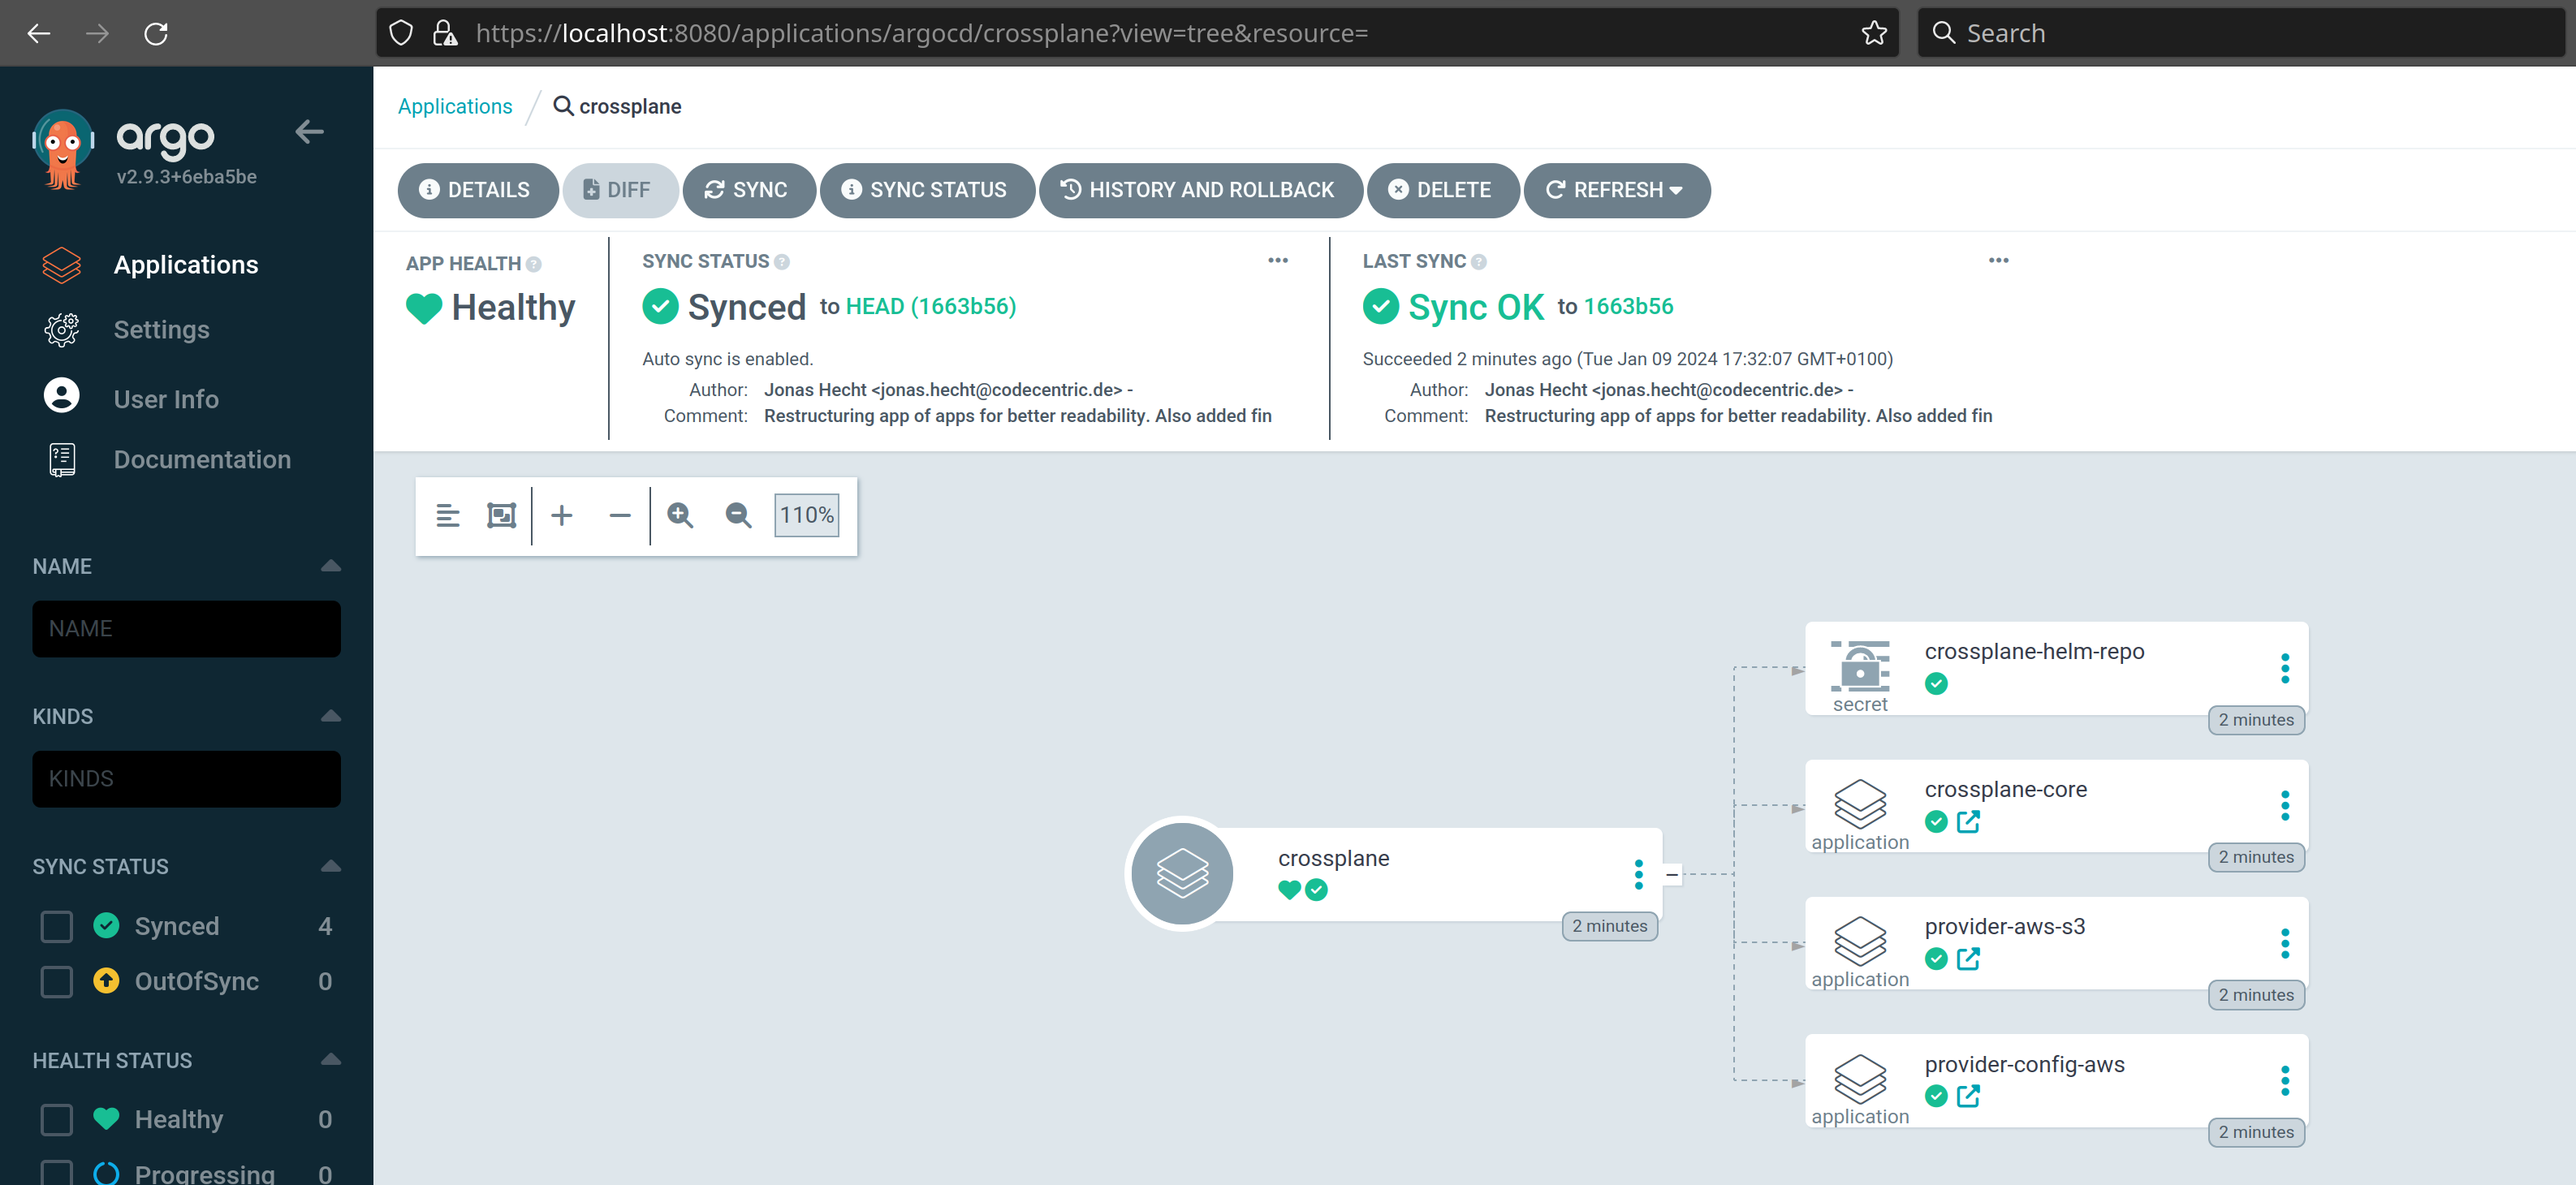
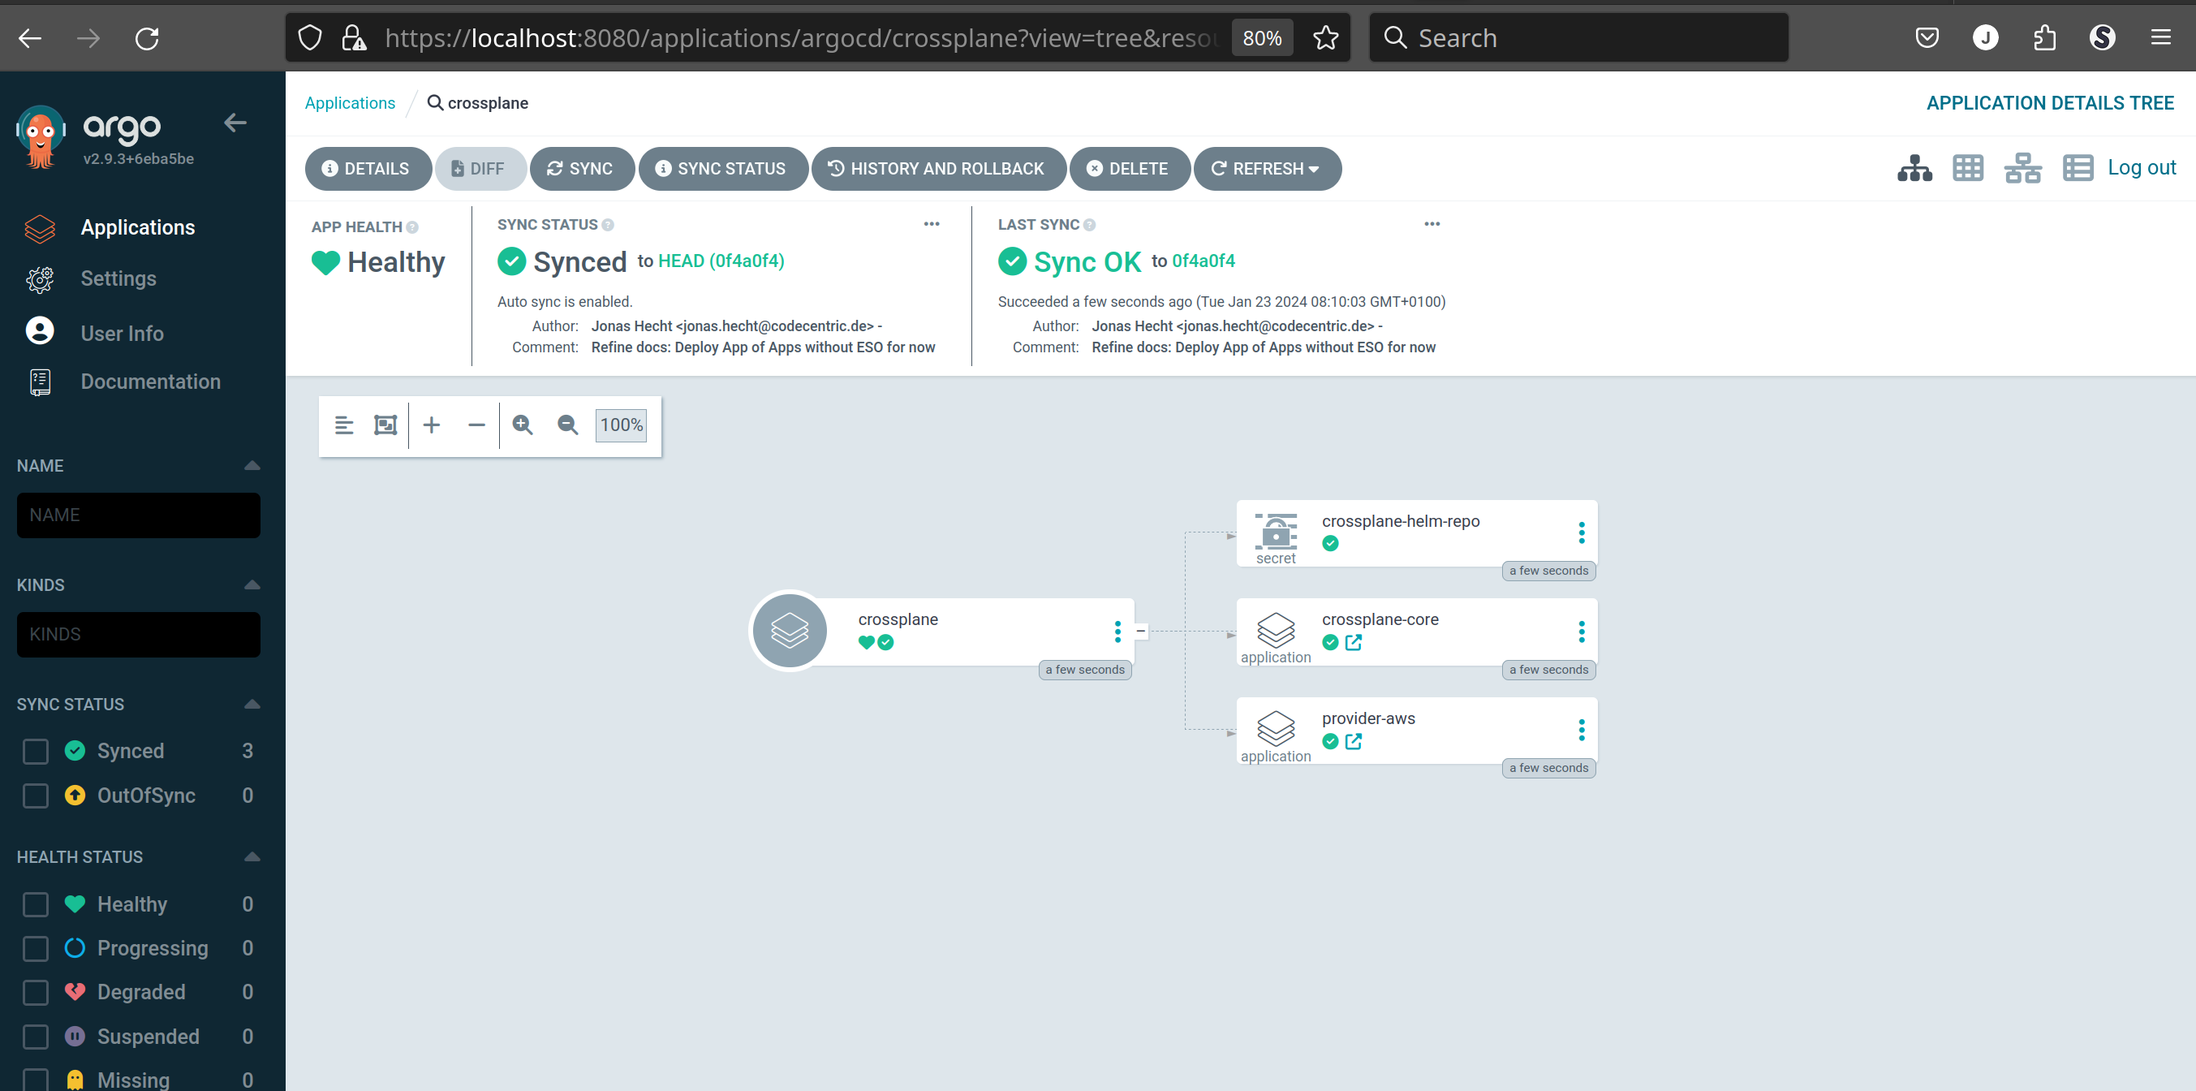
Restructure docs again

Changed region(s): [[0.0, 0.0, 1.0, 1.0], [0.4346, 0.4375, 0.9002, 0.9688], [0.3415, 0.5312, 0.5277, 0.625]]

diff --git a/README.md b/README.md
@@ -433,6 +433,31 @@ We finally managed to let Argo deploy the Crossplane core components together wi
 
 
 
+## Provider and ProviderConfig in one directory / Argo Application
+
+What really drove me nuts was the fact that I needed 2 separate ArgoCD applications for Crossplane's Provider: The Provider itself and the ProviderConfig, where the latter is exactly one single manifest which only configures the Provider where to find it's secrets.
+
+But after digging deeper into Argo's deployment mechanisms, Syncwaves and syncpolicies, I found a way how to get rid of the second Argo Application just for the `provider-config-aws`. 
+
+I simply used `syncPolicy:retry:limit: 5`, so that the `Provider` has the chance to deploy it's CRDs (together with the `ProviderConfig` type), in order the `ProviderConfig` can be deployed successfully. It's all just in [`argocd/applications/crossplane-provider-aws.yaml`](argocd/applications/crossplane-provider-aws.yaml):
+
+```yaml
+  syncPolicy:
+    ... 
+    retry:
+      # Using limit 5, so that the ProviderConfig can "wait" (via retry) for the Provider and it's CRDs to be deployed
+      # and not to run into 'The Kubernetes API could not find aws.upbound.io/ProviderConfig for requested resource default/default.'
+      limit: 5
+      ...
+```
+
+Our Application overview becomes much cleaner and the detail of the `provider-aws` now shows the `default` providerconfig as a second item:
+
+![](docs/provider-aws-provider-config-one-argo-application.png)
+
+
+
+
 # Using ArgoCD's AppOfApps pattern to deploy Crossplane components
 
 ### Why our current setup is sub optimal
@@ -557,7 +582,7 @@ Now if we have a look into `crossplane` App of Apps we see all the needed compon
 
 
 
-# Doing it all with GitHub Actions
+## Doing it all with GitHub Actions
 
 Ok, enough theory :)) Let's create a pipeline that shows stuff works. Let's introduce a [.github/workflows/provision-aws.yml](.github/workflows/provision-aws.yml):
 
@@ -641,6 +666,93 @@ Be sure to create both `AWS_ACCESS_KEY_ID` and `AWS_SECRET_ACCESS_KEY` configure
 ![github-actions-secrets](docs/github-actions-secrets.png)
 
 Also make sure to have your `Default region` configured as a `env:` variable.
+
+
+
+
+
+## Finally provisioning Cloud resources with Crossplane and Argo
+
+Let's create a simple S3 Bucket in AWS. [The docs tell us](https://marketplace.upbound.io/providers/upbound/provider-aws-s3/v0.47.1/resources/s3.aws.upbound.io/Bucket/v1beta1), which config we need. [`upbound/provider-aws/resources/bucket.yaml`](upbound/provider-aws/resources/bucket.yaml) features a super simply example:
+
+```yaml
+apiVersion: s3.aws.upbound.io/v1beta1
+kind: Bucket
+metadata:
+  name: crossplane-argocd-s3-bucket
+spec:
+  forProvider:
+    region: eu-central-1
+  providerConfigRef:
+    name: default
+```
+
+__TODO:__ Rename `argocd/applications` into `argocd/bootstrap` and the corresponding app-of-apps also into `crossplane-bootstrap` - since that's exactly what it is and does!
+
+
+Since we're using Argo, we should deploy our Bucket as Argo Application too. I created a new folder `argocd/crossplane-resources`
+here, since the Crossplane provisioned infrastructure may not automatically be part of the bootstrap App of Apps.
+
+So here's our Argo Application for all the Crossplane resources that may come: [`argocd/crossplane-resources/crossplane-managed-resources.yaml`](argocd/crossplane-resources/crossplane-managed-resources.yaml):
+
+```yaml
+# The ArgoCD Application for all Crossplane Managed Resources
+---
+apiVersion: argoproj.io/v1alpha1
+kind: Application
+metadata:
+  name: crossplane-managed-resources
+  namespace: argocd
+  finalizers:
+    - resources-finalizer.argocd.argoproj.io
+spec:
+  project: default
+  source:
+    repoURL: https://github.com/jonashackt/crossplane-argocd
+    targetRevision: HEAD
+    path: upbound/provider-aws/resources
+  destination:
+    namespace: default
+    server: https://kubernetes.default.svc
+  syncPolicy:
+    automated:
+      prune: true    
+    retry:
+      limit: 5
+      backoff:
+        duration: 5s 
+        factor: 2 
+        maxDuration: 1m
+```
+
+Apply it with:
+
+```shell
+kubectl apply -f argocd/crossplane-resources/crossplane-managed-resources.yaml
+```
+
+If everything went fine, the Argo app should look `Healthy` like this:
+
+![](docs/first-s3-bucket-provisioned-with-argo-crossplane.png)
+
+And inside the AWS console, there should be a new S3 Bucket provisioned:
+
+![](docs/aws-console-s3-bucket-provisioned.png)
+
+
+
+
+
+
+
+
+
+
+
+
+
+
+
 
 
 
@@ -968,64 +1080,7 @@ Here are all components together we deployed so far using Argo:
 
 ![](docs/bootstrap-finalized-argo-crossplane-eso.png)
 
-
-
-
-# Finally provisioning Cloud resources with Crossplane and Argo
-
-Let's create a simple S3 Bucket in AWS. [The docs tell us](https://marketplace.upbound.io/providers/upbound/provider-aws-s3/v0.47.1/resources/s3.aws.upbound.io/Bucket/v1beta1), which config we need. [`upbound/provider-aws/resources/bucket.yaml`](upbound/provider-aws/resources/bucket.yaml) features a super simply example:
-
-```yaml
-apiVersion: s3.aws.upbound.io/v1beta1
-kind: Bucket
-metadata:
-  name: crossplane-argocd-s3-bucket
-spec:
-  forProvider:
-    region: eu-central-1
-  providerConfigRef:
-    name: default
-```
-
-__TODO:__ Rename `argocd/applications` into `argocd/bootstrap` and the corresponding app-of-apps also into `crossplane-bootstrap` - since that's exactly what it is and does!
-
-
-Since we're using Argo, we should deploy our Bucket as Argo Application too. I created a new folder `argocd/crossplane-resources`
-here, since the Crossplane provisioned infrastructure may not automatically be part of the bootstrap App of Apps.
-
-So here's our Argo Application for all the Crossplane resources that may come: [`argocd/crossplane-resources/crossplane-managed-resources.yaml`](argocd/crossplane-resources/crossplane-managed-resources.yaml):
-
-```yaml
-# The ArgoCD Application for all Crossplane Managed Resources
----
-apiVersion: argoproj.io/v1alpha1
-kind: Application
-metadata:
-  name: crossplane-managed-resources
-  namespace: argocd
-  finalizers:
-    - resources-finalizer.argocd.argoproj.io
-spec:
-  project: default
-  source:
-    repoURL: https://github.com/jonashackt/crossplane-argocd
-    targetRevision: HEAD
-    path: upbound/provider-aws/resources
-  destination:
-    namespace: default
-    server: https://kubernetes.default.svc
-  syncPolicy:
-    automated:
-      prune: true    
-    retry:
-      limit: 5
-      backoff:
-        duration: 5s 
-        factor: 2 
-        maxDuration: 1m
-```
-
-Apply it with:
+Deploying our [`argocd/crossplane-resources/crossplane-managed-resources.yaml`](argocd/crossplane-resources/crossplane-managed-resources.yaml) should also work as expected:
 
 ```shell
 kubectl apply -f argocd/crossplane-resources/crossplane-managed-resources.yaml
@@ -1038,6 +1093,8 @@ If everything went fine, the Argo app should look `Healthy` like this:
 And inside the AWS console, there should be a new S3 Bucket provisioned:
 
 ![](docs/aws-console-s3-bucket-provisioned.png)
+
+
 
 
 
